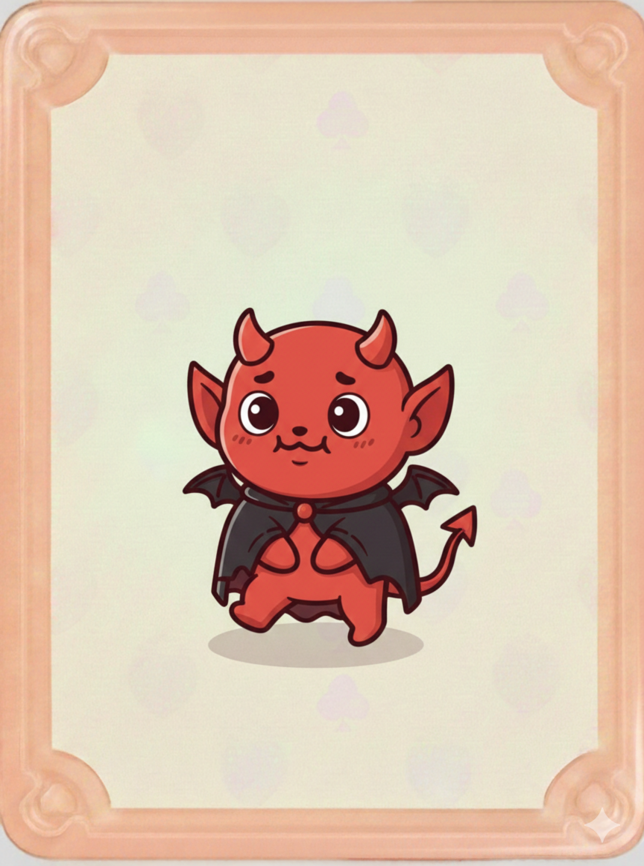
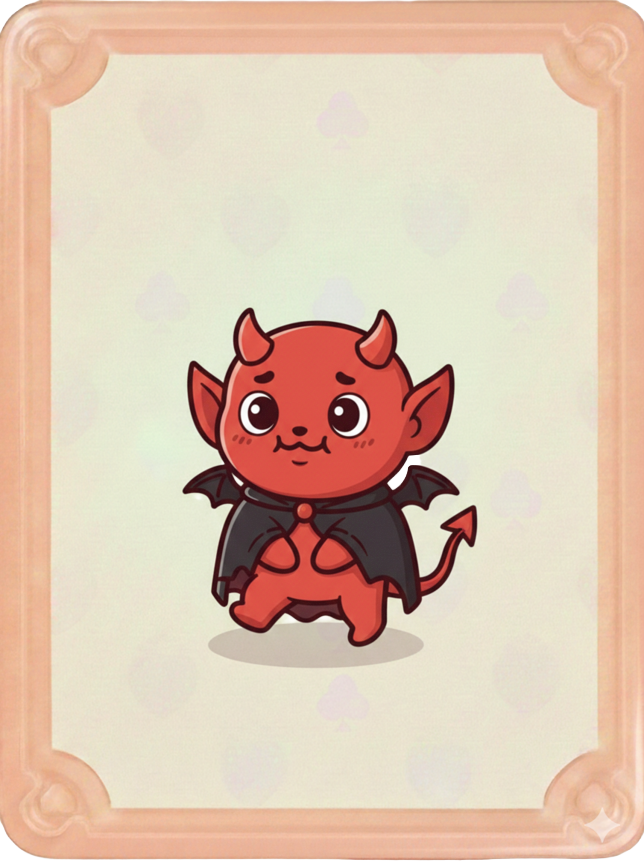
특수카드 패널티2배_2

diff --git a/index.js b/index.js
@@ -249,40 +249,31 @@ function isPenCard(card) {
 
 function hasThunderCardOnTable(players) {
   return players.some((player) => {
-    if (
-      Array.isArray(player.openCardStack) &&
-      player.openCardStack.length > 0
-    ) {
-      const top = player.openCardStack[player.openCardStack.length - 1];
-      return isThunderCard(top);
-    }
-    return isThunderCard(player.openCard);
+    const top =
+      Array.isArray(player.openCardStack) && player.openCardStack.length > 0
+        ? player.openCardStack[player.openCardStack.length - 1]
+        : player.openCard;
+    return isThunderCard(top);
   });
 }
 
 function hasBombCardOnTable(players) {
   return players.some((player) => {
-    if (
-      Array.isArray(player.openCardStack) &&
-      player.openCardStack.length > 0
-    ) {
-      const top = player.openCardStack[player.openCardStack.length - 1];
-      return isBombCard(top);
-    }
-    return isBombCard(player.openCard);
+    const top =
+      Array.isArray(player.openCardStack) && player.openCardStack.length > 0
+        ? player.openCardStack[player.openCardStack.length - 1]
+        : player.openCard;
+    return isBombCard(top);
   });
 }
 
 function hasPenCardOnTable(players) {
   return players.some((player) => {
-    if (
-      Array.isArray(player.openCardStack) &&
-      player.openCardStack.length > 0
-    ) {
-      const top = player.openCardStack[player.openCardStack.length - 1];
-      return isPenCard(top);
-    }
-    return isPenCard(player.openCard);
+    const top =
+      Array.isArray(player.openCardStack) && player.openCardStack.length > 0
+        ? player.openCardStack[player.openCardStack.length - 1]
+        : player.openCard;
+    return isPenCard(top);
   });
 }
 
@@ -2360,6 +2351,22 @@ io.on("connection", (socket) => {
           ts: Date.now(),
           roomId: room.roomId,
         });
+      }
+
+      // 추가 디버그: 패널티가 2일 때 각 플레이어의 탑 카드 타입을 전송
+      if (penaltyPerRecipient > 1) {
+        const topTypes = room.players.map((pl) => {
+          const top =
+            Array.isArray(pl.openCardStack) && pl.openCardStack.length > 0
+              ? pl.openCardStack[pl.openCardStack.length - 1]
+              : pl.openCard;
+          return {
+            playerId: pl.id,
+            nickname: pl.nickname,
+            topType: top && top.type ? top.type : `${top?.fruit}_${top?.count}`,
+          };
+        });
+        emitServerDebug(room, "pen.debugTopCards", { topTypes });
       }
 
       if (others.length > 0) {

diff --git a/game.js b/game.js
@@ -6111,6 +6111,10 @@ class GameScene extends Phaser.Scene {
       return "ton";
     }
 
+    if (card && card.type === PEN_CARD_TYPE) {
+      return "pen";
+    }
+
     const fruitNames = { 1: "strawberry", 2: "banana", 3: "lime", 4: "plum" };
     const fruitName = fruitNames[card.fruit] || "strawberry";
     return `${fruitName}_${card.count}`;
